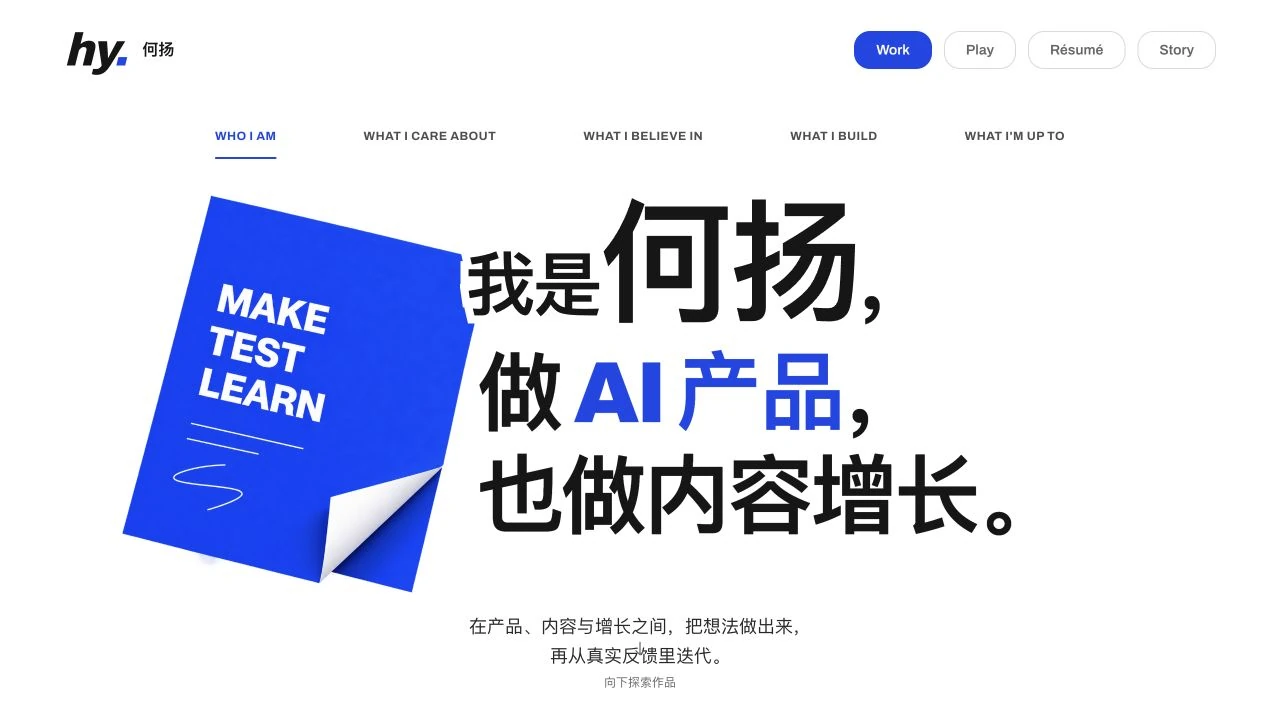
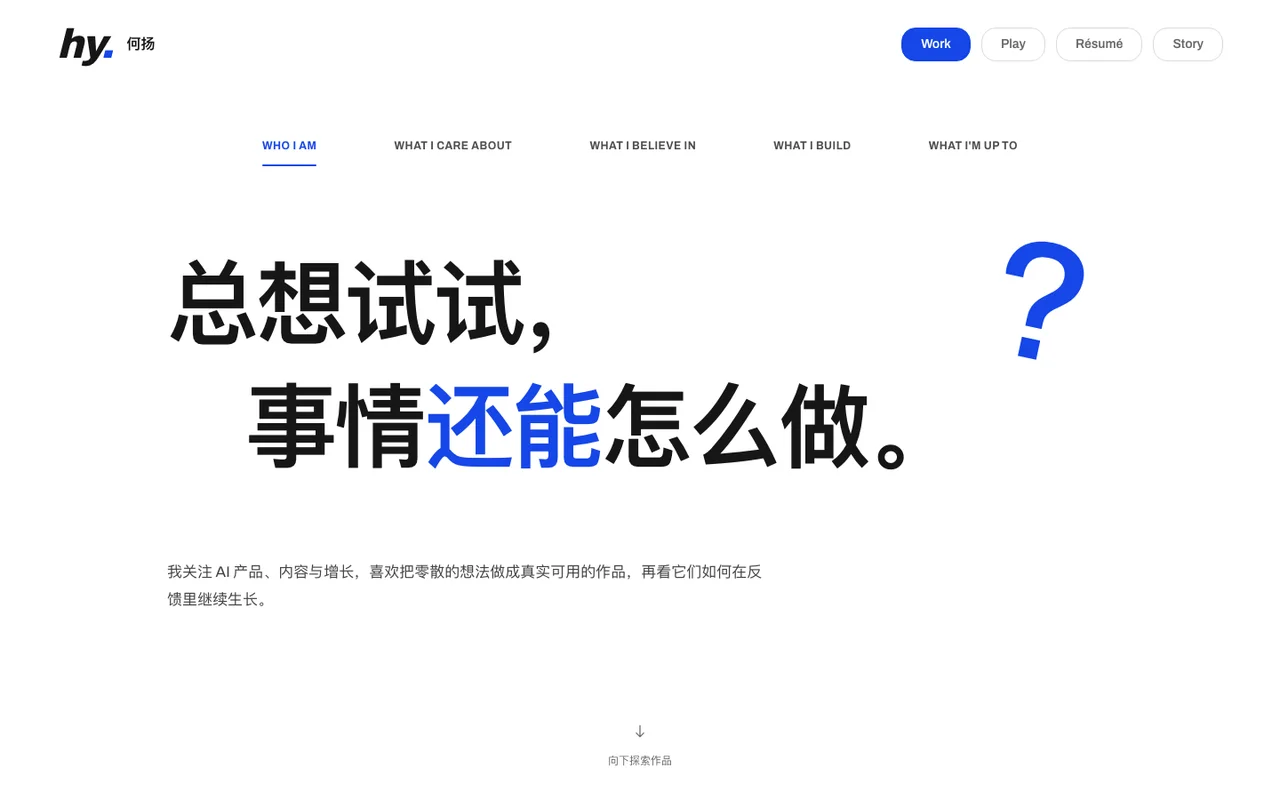
docs(portfolio): sync GitHub showcase with Hero v0.3

diff --git a/README.md b/README.md
@@ -2,9 +2,11 @@
 
 ### AI Product · Operations · Growth
 
-一个关于产品、创意与实践的个人作品集。通过真实项目，展示我如何从发现问题出发，将想法转化为具体的产品与体验。
+总想试试，事情还能怎么做。
 
-![何扬个人作品集线上首页：白色画布、黑蓝大字与蓝色折纸视觉。截图来自已发布版本。](docs/images/portfolio-hero.webp)
+一个关于好奇、创意与实践的个人作品集。通过真实项目，展示我如何从发现问题出发，将想法转化为具体的产品与体验。
+
+![何扬个人作品集 V0.3 线上首页：白色画布、黑蓝中文大字与问号细节。截图来自已发布版本。](docs/images/portfolio-hero.webp)
 
 **[在线作品集 →](https://cocobolo111-png.github.io/personal-portfolio/)** · [GitHub 个人主页](https://github.com/Cocobolo111-png)
 
@@ -42,11 +44,11 @@
 
 ### 白色画布，把重点留给作品
 
-大尺寸黑色文字建立阅读顺序，蓝色强调职业方向与关键判断。折纸和各章节的图形给首页一点个人气质，也让不同主题拥有可辨认的视觉线索。
+大尺寸黑色文字建立阅读顺序，蓝色强调好奇与关键判断。第一、四章用错位排版与留白完成构图；第二、三、五章通过原创 SVG 路径、实验轨迹与 WIP 模块，呈现我关注体验、动手验证和持续创造的方式。
 
 ### 用切换建立自我介绍的节奏
 
-首页通过五个标签，分别呈现我是谁、关注什么、相信什么、做什么与近期实践。点击、键盘方向键及移动端横向滑动均有对应路径；切换动效围绕当前章节展开，并支持系统的减少动态效果偏好。
+首页通过五个标签，沿着「好奇 → 关注 → 信念 → 创造 → 正在发生」展开自我介绍。点击、键盘方向键及移动端横向滑动均有对应路径；章节切换配合短暂的路径描绘、实验投掷和模块装配动效，并支持系统的减少动态效果偏好。
 
 ### 先看作品，再深入过程
 
@@ -98,6 +100,6 @@ pnpm preview
 
 当前公开版本包含五章节 Hero、五个项目展示入口及对应案例页。Play、Story 和 Résumé 仍是未开放或未配置的入口，不代表已完成页面或简历下载服务。
 
-本轮 README 截图来自已部署的公开页面。另有本地 Hero 迭代尚未提交发布，未作为线上能力或公开截图展示。`PRODUCT.md` / `DESIGN.md` 保留了阶段性设计记录，部分状态早于当前代码；判断现有能力时，以公开源码与实际页面为准。
+当前线上已发布 V0.3 Hero 文案、桌面排版与原创 SVG 视觉升级；README 首页截图同步自这一公开版本。第一、四章的 3D 视觉按计划暂缓，当前以完整的文字构图呈现。`PRODUCT.md` / `DESIGN.md` 保留了阶段性设计记录，部分状态早于当前代码；判断现有能力时，以公开源码与实际页面为准。
 
 项目案例中的合成数据、历史重建与真实素材分别标注，不将工具测试、演示记录或作品展示等同于用户增长和商业成果。
